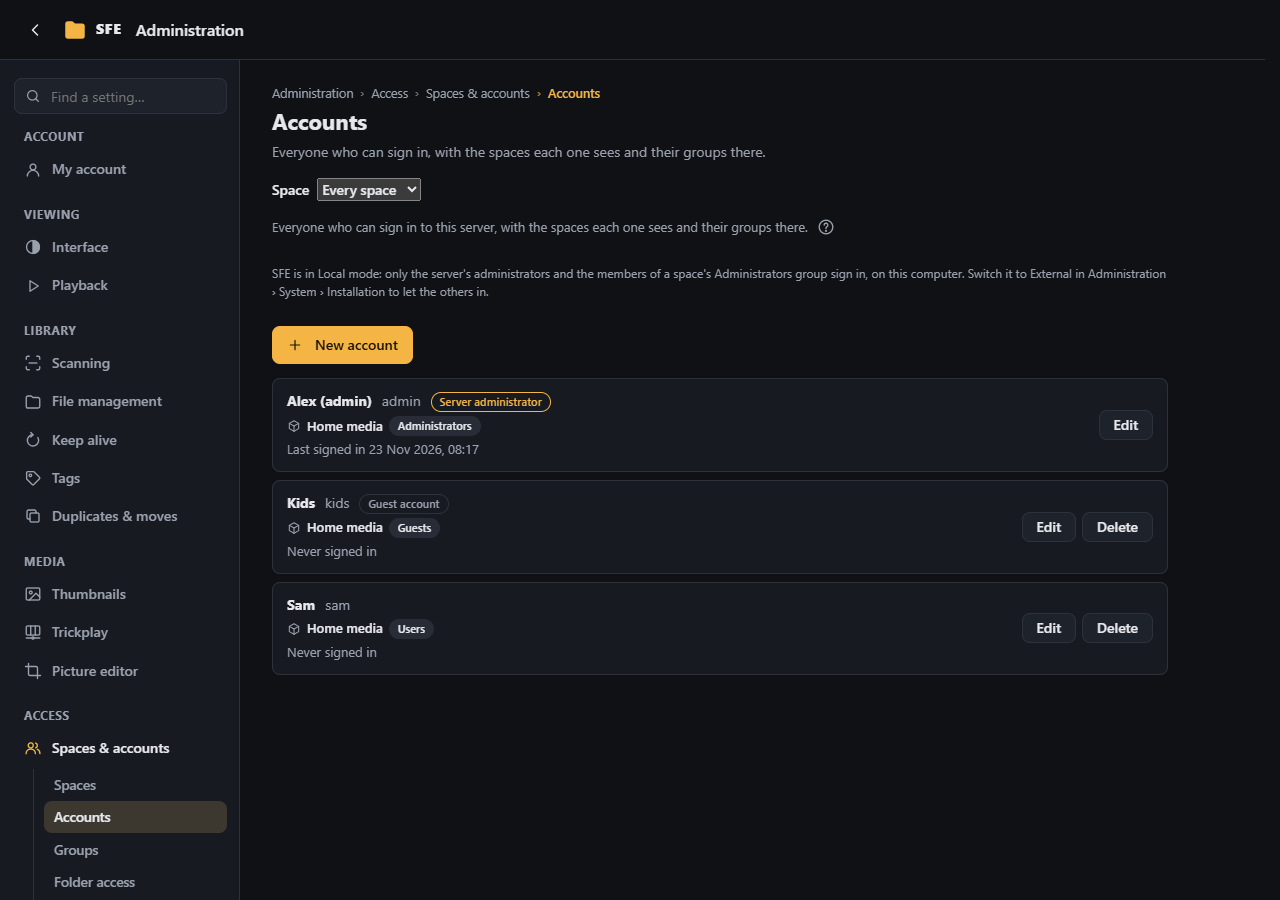
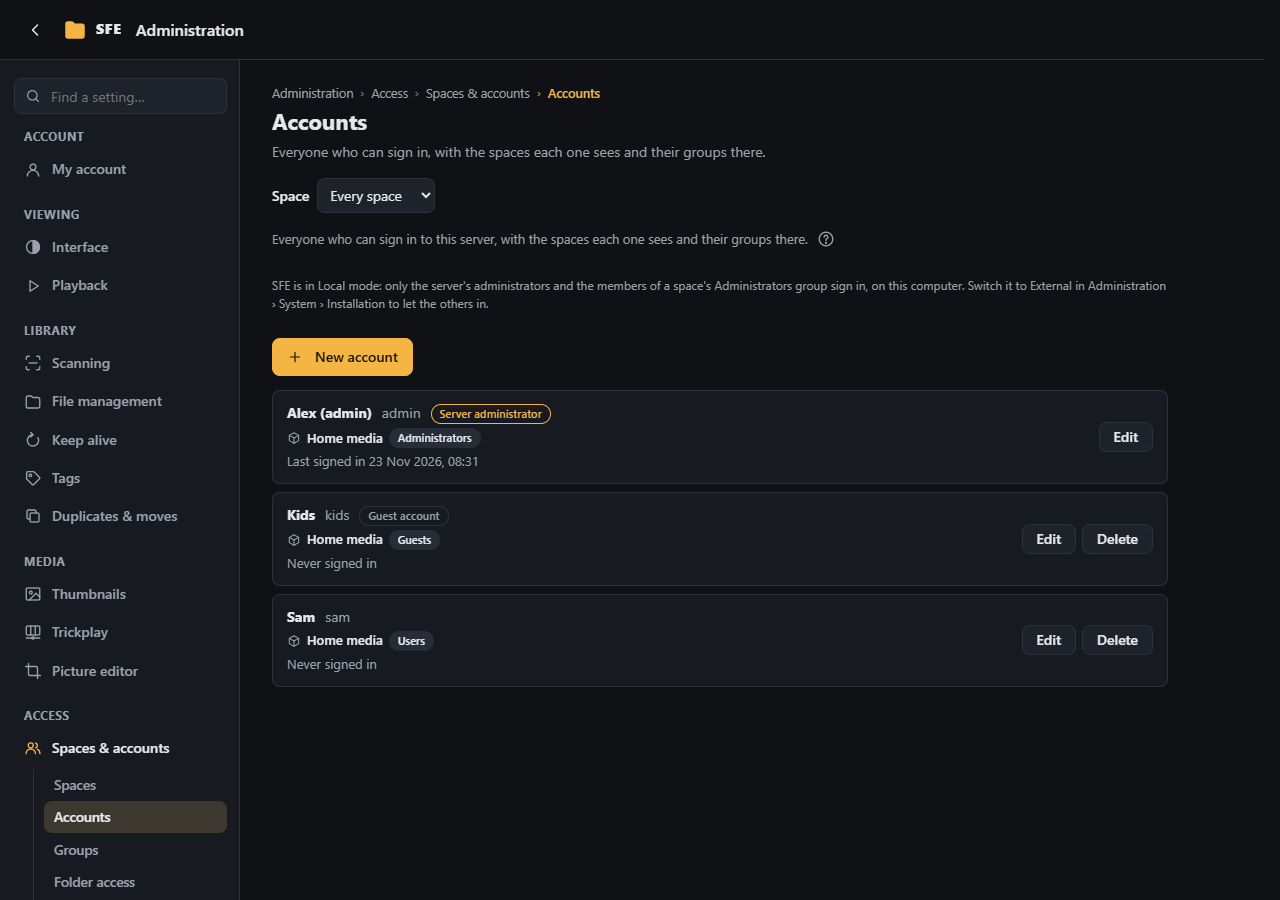
claude: drop-down lists outside a form get the app's look (base.css: border, surface colour, about a small button's height) instead of the browser's own box: a folder rule's level, the Space picker, Add an existing account…, a connection's group, the copy to keep among duplicates; the Space picker's

Changed region(s): [[0.2188, 0.1867, 0.9062, 0.7467], [0.8125, 0.6844, 0.9062, 0.7156], [0.875, 0.4667, 0.9062, 0.4978]]

diff --git a/src/Sfe.Web/src/styles/base.css b/src/Sfe.Web/src/styles/base.css
@@ -126,6 +126,23 @@ textarea {
     font: inherit;
     color: inherit;
 }
+/*
+ * A select without a style of its own (in a card's row, beside a heading): the app's colours, border and about the
+ * height of a small button, not the browser's own box. Forms, toolbars and the sort box style theirs over this.
+ */
+select {
+    padding: 6px 8px;
+    border: 1px solid var(--border);
+    border-radius: var(--radius-sm);
+    background: var(--surface-2);
+    color: var(--text);
+    font-weight: 400;
+    cursor: pointer;
+}
+select:disabled {
+    opacity: 0.6;
+    cursor: default;
+}
 
 /* Touch screens: iOS zooms the whole page into a field whose text is under 16 px when it gets the focus, and leaves
    it zoomed (e2e `expectNoZoomOnFocus`). Over the fields' own sizes (`font: inherit` in a 12 px status bar...). */

diff --git a/src/Sfe.Web/src/app/access/space-part.spec.ts b/src/Sfe.Web/src/app/access/space-part.spec.ts
@@ -225,7 +225,7 @@ describe('SpacePartComponent', () => {
         );
     });
 
-    it('marks the rights that change things, those that change files the most, after those that only look', async () => {
+    it('marks the rights that change things, those that change files the most, after the others', async () => {
         serverSpaces();
         api.groups.mockResolvedValue(work);
         await create('groups', `/?space=${WORK.id}`);

diff --git a/src/Sfe.Web/src/styles/access.css b/src/Sfe.Web/src/styles/access.css
@@ -167,6 +167,8 @@ sfe-help {
     display: flex;
     align-items: center;
     gap: 8px;
+}
+.space-pick > span {
     font-weight: 600;
 }
 .access-filter {

diff --git a/agents/docs/development/frontend.md b/agents/docs/development/frontend.md
@@ -14,6 +14,9 @@ Code: `src/Sfe.Web/src/app/`, styles in `src/Sfe.Web/src/styles/`. Build mechani
 - Styling is global CSS in `src/styles/` by class name (`styles.css` imports one partial per area), no component
   styles; hosts carry the classes (`host: { class: 'tile' }`, attribute selectors like `article[sfeFileTile]`) so the
   DOM and the CSS stay as they were.
+- A `select` gets the app's look from `base.css` (border, `--surface-2`, ~32 px like a small button); an area
+  styles its own over it (forms, toolbars, the sort box). Never leave one with the browser's box: it stood out beside
+  the buttons of a row (folder rules, 2026-11-23).
 - Icons: `<svg sfeIcon="name">` from `IconSpriteComponent`.
 - Per-browser preferences through `core/preferences.ts`.
 - Every button (and icon link) gets a `title` hint saying what it does, with its shortcut if any.

diff --git a/CHANGELOG.md b/CHANGELOG.md
@@ -339,6 +339,10 @@ scan) is in [docs/upgrading.md](docs/upgrading.md).
 
 ### Fixed
 
+- **Drop-down lists look like the rest of the page**: those outside a form (a folder rule's level, the Space picker,
+  Add an existing account…, a connection's group, the copy to keep among duplicates) showed the browser's own small
+  box; they now have the app's colours, border and the height of the buttons beside them.
+
 Security (second audit, 2026-11):
 
 - **A file of the library can no longer be loaded as a script or a style sheet of SFE's own pages**: scripts, style
